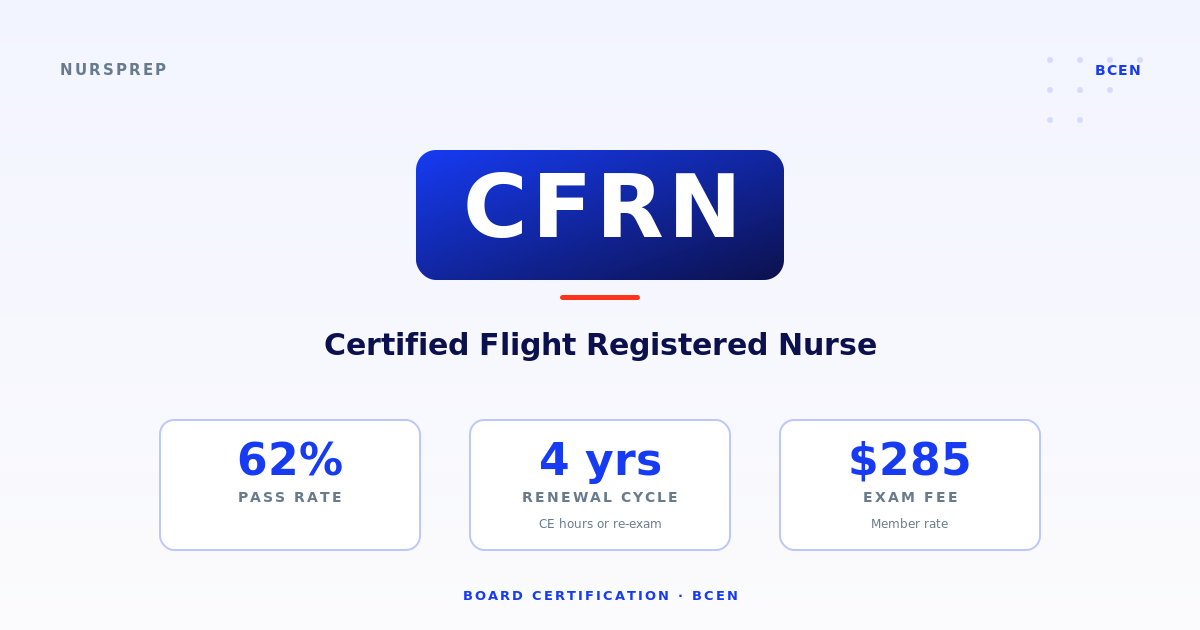
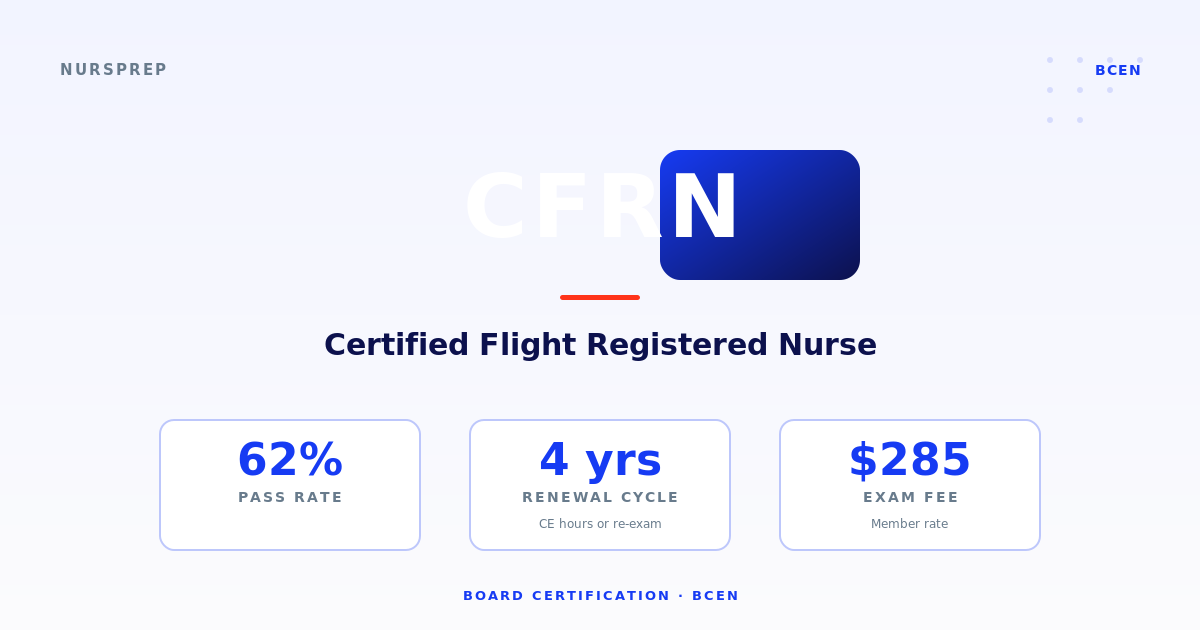
Add card images for 9 new cert pages + integrate generator into repo
Backfills card PNGs for: CHPN, RNC-OB, NE-BC, NPD-BC, PMH-BC, ACHPN,
BMTCN, AMB-BC, NCSN. Resolves broken-image issue on those pages.

Moves generate-hero.js into Website Codebase 11ty/scripts/ so it
travels with the repo and is available in the /tmp clone the
autonomous skill creates each run. Adapted paths:
- TEMPLATE: scripts/cert-template.svg (was external)
- OUT_DIR: src/assets/images/certs/ (was cert-hero-images/)
- Intermediate SVG: /tmp/nursprep-card-svgs/ (no longer committed)

Pipeline: cert-template.svg + data from src/_data/exams/{code}.js
→ cairosvg (Python) → 1200x630 PNG. Same SVG template, same
visual style as the original 9 cards.

Note: regenerating CFRN as part of testing produced a byte-identical
output to the committed version, confirming the new script paths
match the original pipeline exactly.

Changed region(s): [[0.3392, 0.2111, 0.74, 0.4524]]

diff --git a/scripts/generate-hero.js b/scripts/generate-hero.js
@@ -1,0 +1,112 @@
+#!/usr/bin/env node
+// generate-hero.js — renders cert-card PNGs for each cert page.
+//
+// Lives at: Website Codebase 11ty/scripts/generate-hero.js
+// Template: scripts/cert-template.svg
+// Source data: src/_data/exams/{slug}.js
+// Output PNG: src/assets/images/certs/{slug}-card.png
+// (Intermediate SVG written to /tmp and not committed.)
+//
+// Usage:
+//   node scripts/generate-hero.js               # all certs
+//   node scripts/generate-hero.js tcrn cfrn     # specific slugs
+
+const fs = require("fs");
+const path = require("path");
+const { execSync } = require("child_process");
+
+const ROOT = path.resolve(__dirname, "..");
+const EXAMS_DIR = path.join(ROOT, "src", "_data", "exams");
+const TEMPLATE = path.join(__dirname, "cert-template.svg");
+const OUT_DIR = path.join(ROOT, "src", "assets", "images", "certs");
+const TMP_SVG_DIR = "/tmp/nursprep-card-svgs";
+
+function normalizePassRate(raw) {
+  if (!raw) return { main: "n/a", sub: "" };
+  const m = raw.match(/^([~\d%–\-\s.]+%)(.*)$/);
+  if (!m) return { main: raw, sub: "" };
+  const main = m[1].trim();
+  const tail = (m[2] || "").replace(/[()]/g, "").replace(/verify/i, "unverified").trim();
+  return { main, sub: tail };
+}
+function normalizeRenewal(raw) {
+  if (!raw) return "—";
+  const m = raw.match(/^(\d+)\s*(yr|year)/i);
+  return m ? `${m[1]} yrs` : raw.split("·")[0].trim();
+}
+function normalizeFee(raw) {
+  if (!raw) return "—";
+  const m = raw.match(/\$\s*([\d,]+)/);
+  return m ? `$${m[1]}` : raw;
+}
+function getField(entries, labelRegex) {
+  const hit = entries.find((e) => labelRegex.test(e.k));
+  return hit ? hit.v : null;
+}
+function fillTemplate(tpl, data) {
+  const len = data.ACRONYM.length;
+  const w = len <= 4 ? 200 : len <= 6 ? 240 : len <= 8 ? 280 : 320;
+  const x = 60;
+  return tpl
+    .replace(/\{\{ACRONYM\}\}/g, data.ACRONYM)
+    .replace(/\{\{NAME\}\}/g, data.NAME)
+    .replace(/\{\{BODY\}\}/g, data.BODY)
+    .replace(/\{\{PASS_RATE\}\}/g, data.PASS_RATE)
+    .replace(/\{\{PASS_RATE_SUB\}\}/g, data.PASS_RATE_SUB || "")
+    .replace(/\{\{RENEWAL\}\}/g, data.RENEWAL)
+    .replace(/\{\{FEE\}\}/g, data.FEE)
+    .replace(/\{\{SLUG\}\}/g, data.SLUG)
+    .replace(/\{\{BADGE_W\}\}/g, w)
+    .replace(/\{\{BADGE_X\}\}/g, x);
+}
+
+function render(slug) {
+  const examPath = path.join(EXAMS_DIR, `${slug}.js`);
+  delete require.cache[examPath];
+  const exam = require(examPath);
+  const pass = normalizePassRate(getField(exam.heroPills || [], /pass rate/i) || "");
+  const renewalRaw =
+    getField(exam.heroPills || [], /renewal/i) ||
+    getField(exam.ataGlance || [], /renewal cycle/i) ||
+    getField(exam.ataGlance || [], /renewal/i);
+  const feeRaw =
+    getField(exam.ataGlance || [], /^fee/i) ||
+    getField(exam.ataGlance || [], /fee/i);
+  const data = {
+    ACRONYM: exam.code,
+    NAME: exam.name,
+    BODY: exam.body,
+    PASS_RATE: pass.main,
+    PASS_RATE_SUB: pass.sub,
+    RENEWAL: normalizeRenewal(renewalRaw),
+    FEE: normalizeFee(feeRaw),
+    SLUG: slug,
+  };
+  const tpl = fs.readFileSync(TEMPLATE, "utf8");
+  const svg = fillTemplate(tpl, data);
+  if (!fs.existsSync(TMP_SVG_DIR)) fs.mkdirSync(TMP_SVG_DIR, { recursive: true });
+  const svgOut = path.join(TMP_SVG_DIR, `${slug}-card.svg`);
+  const pngOut = path.join(OUT_DIR, `${slug}-card.png`);
+  fs.writeFileSync(svgOut, svg);
+  execSync(`python3 -c "import cairosvg; cairosvg.svg2png(url='${svgOut}', write_to='${pngOut}', output_width=1200, output_height=630)"`);
+  return { slug, data, pngOut };
+}
+
+if (!fs.existsSync(OUT_DIR)) fs.mkdirSync(OUT_DIR, { recursive: true });
+
+const args = process.argv.slice(2);
+const slugs = args.length ? args : fs.readdirSync(EXAMS_DIR).filter(f => f.endsWith(".js")).map(f => f.replace(/\.js$/, ""));
+
+let success = 0, fail = 0;
+for (const slug of slugs) {
+  try {
+    const r = render(slug);
+    console.log(`✓ ${r.data.ACRONYM.padEnd(10)} pass=${r.data.PASS_RATE.padEnd(8)} renew=${r.data.RENEWAL.padEnd(8)} fee=${r.data.FEE}  →  ${path.relative(ROOT, r.pngOut)}`);
+    success++;
+  } catch (e) {
+    console.error(`✗ ${slug}: ${e.message}`);
+    fail++;
+  }
+}
+console.log(`\n${success} succeeded, ${fail} failed.`);
+process.exit(fail > 0 ? 1 : 0);
